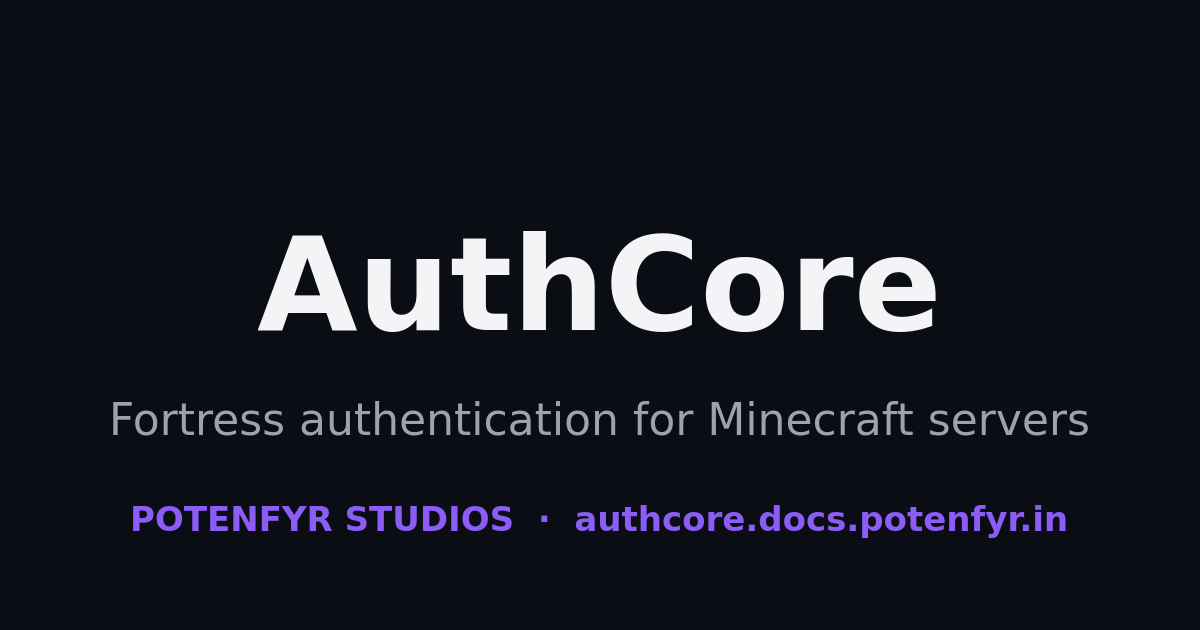
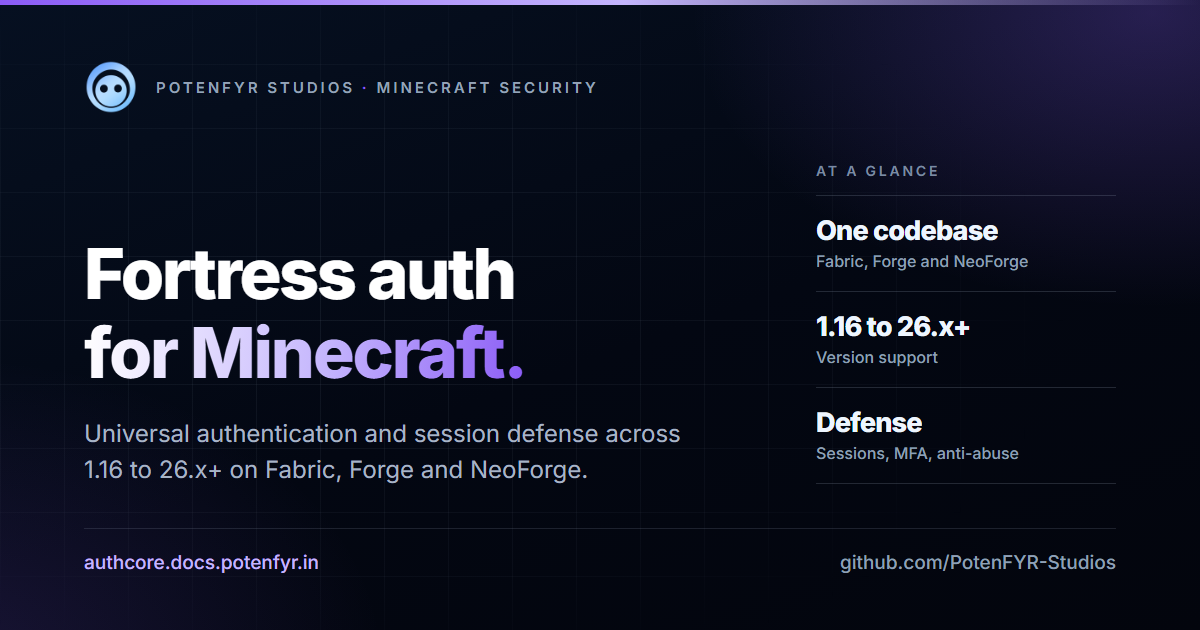
feat(site): redesigned OG card rendered from a committed script

diff --git a/scripts/og/card.html b/scripts/og/card.html
@@ -1,0 +1,199 @@
+<!doctype html>
+<html lang="en">
+  <head>
+    <meta charset="utf-8" />
+    <title>AuthCore link preview</title>
+    <!--
+      Shared template for PotenFYR Studios project OG cards.
+      Edit only the CONFIG block below; the layout stays identical across the org
+      so every project's link preview reads as one family.
+      Render with: bun run og:image  (scripts/og/build-og.mjs)
+    -->
+    <link rel="preconnect" href="https://fonts.googleapis.com" />
+    <link rel="preconnect" href="https://fonts.gstatic.com" crossorigin />
+    <link
+      href="https://fonts.googleapis.com/css2?family=Inter:wght@400;500;600;700;800&display=swap"
+      rel="stylesheet"
+    />
+    <style>
+      /* ---------------- CONFIG ---------------- */
+      :root {
+        --accent: #8b5cf6;         /* project accent, matches the docs site */
+        --accent-soft: #c4b5fd;    /* lighter tint of --accent */
+      }
+      /* ---------------- /CONFIG --------------- */
+
+      * { box-sizing: border-box; margin: 0; padding: 0; }
+      html, body { width: 1200px; height: 630px; overflow: hidden; }
+      body {
+        font-family: 'Inter', 'Segoe UI', system-ui, sans-serif;
+        background: #030712;
+        color: #fff;
+        -webkit-font-smoothing: antialiased;
+      }
+
+      .card {
+        position: relative;
+        width: 1200px;
+        height: 630px;
+        padding: 60px 84px 56px;
+        display: flex;
+        flex-direction: column;
+        background:
+          radial-gradient(720px 460px at 96% 2%, color-mix(in srgb, var(--accent) 26%, transparent), transparent 64%),
+          radial-gradient(700px 500px at -4% 106%, color-mix(in srgb, var(--accent) 16%, transparent), transparent 62%),
+          linear-gradient(160deg, #061021 0%, #030712 54%, #03050d 100%);
+        overflow: hidden;
+      }
+
+      .grid {
+        position: absolute;
+        inset: 0;
+        background-image:
+          linear-gradient(to right, rgba(148, 163, 184, 0.10) 1px, transparent 1px),
+          linear-gradient(to bottom, rgba(148, 163, 184, 0.10) 1px, transparent 1px);
+        background-size: 64px 64px;
+        -webkit-mask-image: radial-gradient(780px 430px at 32% 50%, #000 0%, rgba(0, 0, 0, 0.5) 60%, transparent 88%);
+        mask-image: radial-gradient(780px 430px at 32% 50%, #000 0%, rgba(0, 0, 0, 0.5) 60%, transparent 88%);
+      }
+
+      .edge {
+        position: absolute;
+        top: 0; left: 0; right: 0;
+        height: 5px;
+        background: linear-gradient(90deg, var(--accent) 0%, var(--accent-soft) 52%, transparent 100%);
+      }
+
+      .content { position: relative; z-index: 2; display: flex; flex-direction: column; height: 100%; }
+
+      .lockup { display: flex; align-items: center; gap: 18px; }
+      .lockup img { width: 54px; height: 54px; display: block; }
+      .lockup .studio {
+        font-size: 15px;
+        font-weight: 600;
+        letter-spacing: 0.2em;
+        text-transform: uppercase;
+        color: #94a3b8;
+      }
+      .lockup .studio em { font-style: normal; color: var(--accent); }
+
+      .body {
+        margin-top: auto;
+        display: flex;
+        align-items: flex-end;
+        justify-content: space-between;
+        gap: 54px;
+      }
+      .copy { max-width: 720px; }
+
+      h1 {
+        font-size: 70px;
+        line-height: 1.12;
+        font-weight: 800;
+        letter-spacing: -0.035em;
+      }
+      h1 .grad {
+        background: linear-gradient(96deg, #ffffff 0%, var(--accent-soft) 55%, var(--accent) 100%);
+        -webkit-background-clip: text;
+        background-clip: text;
+        -webkit-text-fill-color: transparent;
+      }
+
+      p.lede {
+        margin-top: 24px;
+        font-size: 24px;
+        line-height: 1.5;
+        color: #a8b4c6;
+      }
+
+      .facts { display: flex; flex-direction: column; min-width: 300px; padding-bottom: 4px; }
+      .facts .eyebrow {
+        font-size: 14px;
+        font-weight: 600;
+        letter-spacing: 0.2em;
+        text-transform: uppercase;
+        color: #7c8ba1;
+        padding-bottom: 16px;
+      }
+      .fact {
+        border-top: 1px solid rgba(148, 163, 184, 0.22);
+        padding: 18px 0 20px;
+      }
+      .fact.last { border-bottom: 1px solid rgba(148, 163, 184, 0.22); }
+      .fact b {
+        display: block;
+        font-size: 27px;
+        font-weight: 800;
+        letter-spacing: -0.03em;
+        color: #eef6ff;
+      }
+      .fact span {
+        display: block;
+        margin-top: 4px;
+        font-size: 16px;
+        font-weight: 500;
+        color: #8fa0b6;
+      }
+
+      .foot {
+        margin-top: 40px;
+        display: flex;
+        align-items: center;
+        justify-content: space-between;
+        border-top: 1px solid rgba(148, 163, 184, 0.18);
+        padding-top: 22px;
+        font-size: 19px;
+        font-weight: 500;
+      }
+      .foot .domain { color: var(--accent-soft); }
+      .foot .org { color: #8fa0b6; }
+    </style>
+  </head>
+  <body>
+    <div class="card">
+      <div class="grid"></div>
+      <div class="edge"></div>
+
+      <div class="content">
+        <div class="lockup">
+          <img src="../../favicon.png" alt="" />
+          <div class="studio">PotenFYR Studios <em>·</em> Minecraft Security</div>
+        </div>
+
+        <div class="body">
+          <div class="copy">
+            <h1>
+              Fortress auth<br />
+              <span class="grad">for Minecraft.</span>
+            </h1>
+            <p class="lede">
+              Universal authentication and session defense across<br />
+              1.16 to 26.x+ on Fabric, Forge and NeoForge.
+            </p>
+          </div>
+
+          <div class="facts">
+            <div class="eyebrow">At a glance</div>
+            <div class="fact">
+              <b>One codebase</b>
+              <span>Fabric, Forge and NeoForge</span>
+            </div>
+            <div class="fact">
+              <b>1.16 to 26.x+</b>
+              <span>Version support</span>
+            </div>
+            <div class="fact last">
+              <b>Defense</b>
+              <span>Sessions, MFA, anti-abuse</span>
+            </div>
+          </div>
+        </div>
+
+        <div class="foot">
+          <div class="domain">authcore.docs.potenfyr.in</div>
+          <div class="org">github.com/PotenFYR-Studios</div>
+        </div>
+      </div>
+    </div>
+  </body>
+</html>
